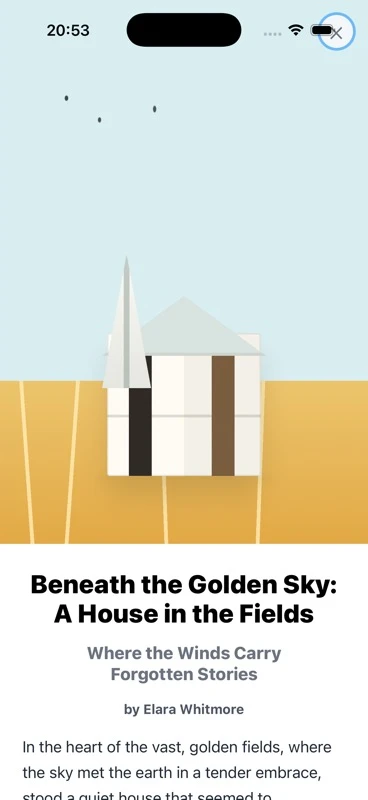
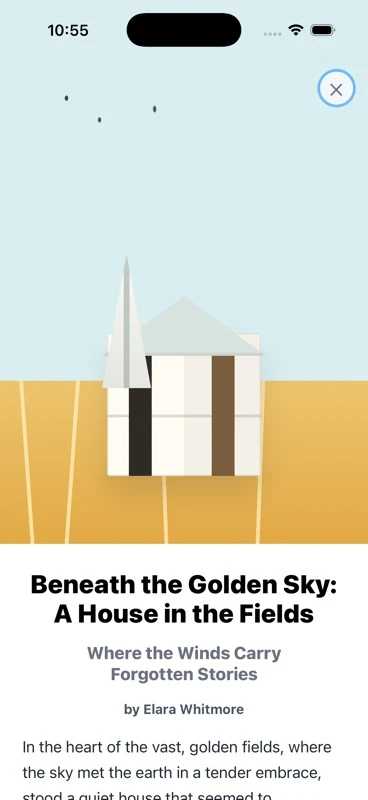
fix long sheet simulator proof

Changed region(s): [[0.8668, 0.0, 0.9864, 0.1562], [0.1196, 0.0312, 0.2391, 0.0625]]

diff --git a/examples/shared/usecase-gallery.css b/examples/shared/usecase-gallery.css
@@ -463,7 +463,7 @@ cap-sheet-content.demo-sheet--form {
 
 .demo-long-close {
   position: absolute;
-  inset-block-start: 1rem;
+  inset-block-start: calc(1rem + env(safe-area-inset-top, 0em));
   inset-inline-end: 1rem;
   z-index: 3;
   display: grid;